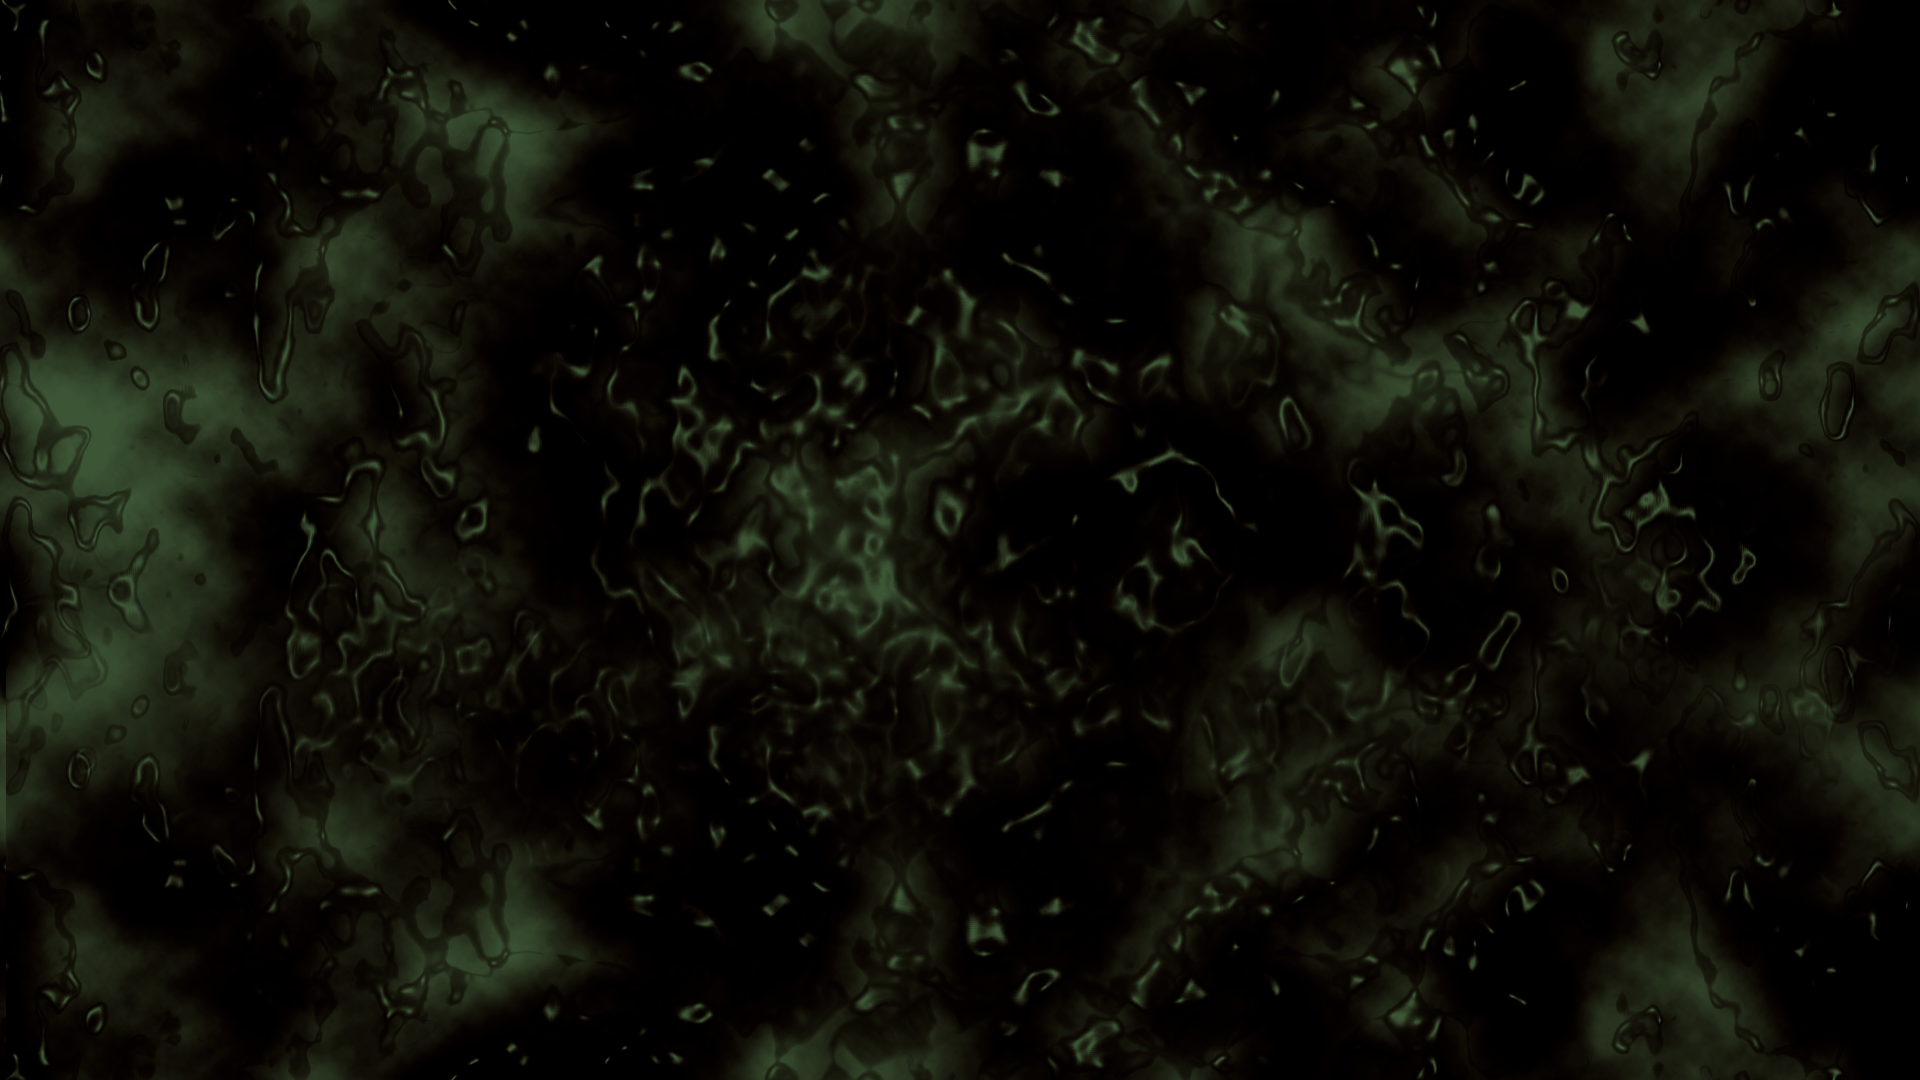
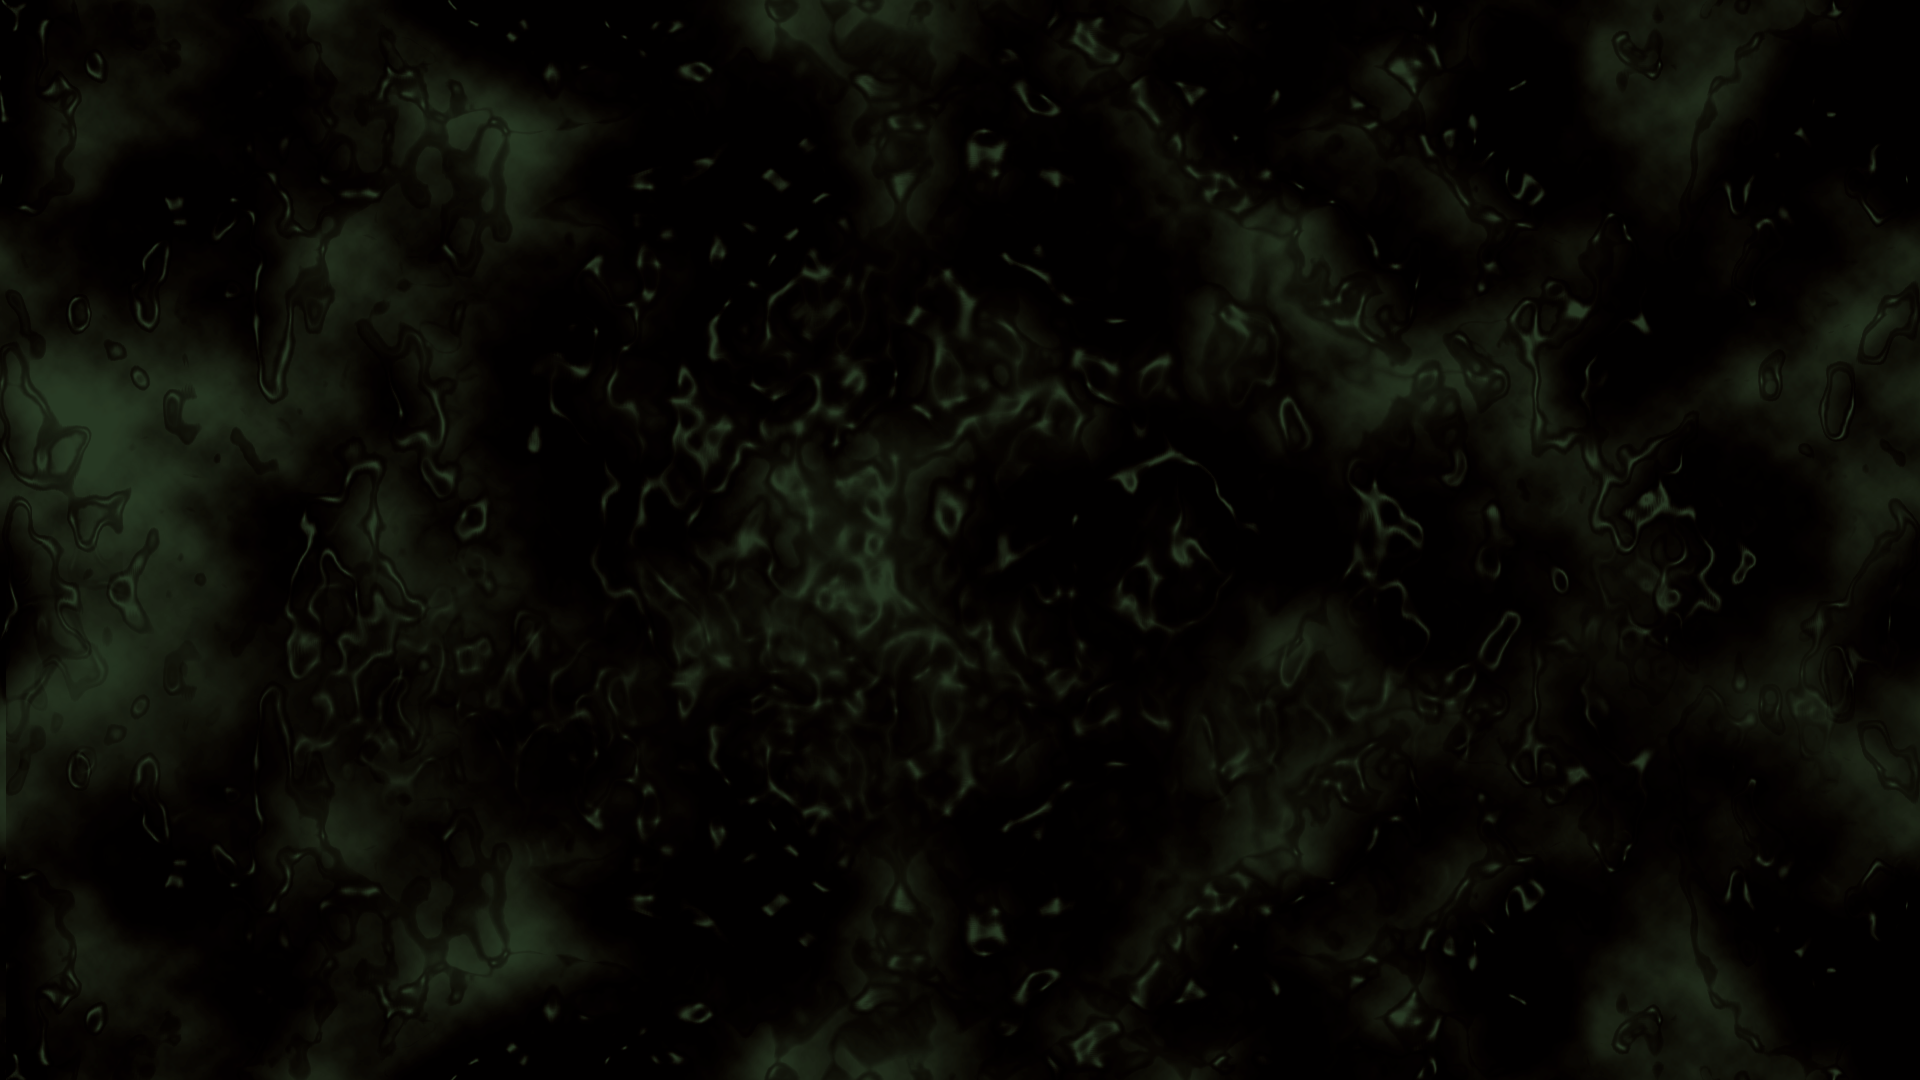
calendarioModificado

diff --git a/src/app/pages/calendario/calendario.component.css b/src/app/pages/calendario/calendario.component.css
@@ -3,18 +3,17 @@ main{
     background-size: cover;
     background-repeat: no-repeat;
     width: 100%;
-    height: 1300px;
+    height: 1200px;
     display: flex;
 }
 
 .cuadroIzq{
-    height: 950px;
+    height: 1100px;
     width: 60%;
     border-radius: 20px 0 0 20px;
     margin-left: 120px;
     margin-top: 160px;
-    background-image: url('src/assets/images/fondos/Fondo_verde2.png');
-    display: flex;
+    background-image: linear-gradient(to bottom, rgba(0, 0, 0, 0.60), rgba(0, 0, 0, 0.60)), url('src/assets/images/fondos/Fondo_verde2.png');    display: flex;
     flex-direction: column;
     align-items: center;
     gap: 30px;
@@ -29,7 +28,7 @@ main{
 
 
  #calendar{
-    height: 800px;
+    height: 965px;
     width: 85%;
     color: var(--blanco);
     font-family: var(--antiqua);
@@ -39,21 +38,36 @@ main{
 .mat-calendar{
     color: var(--blanco);
     font-family: var(--antiqua);
-    border: solid yellow 2px;
     height: 100%;
 } 
 
-::ng-deep .mat-calendar-body-label{
+span{
+    color: var(--blanco);
+    font-family: var(--antiqua);
+}
+
+polygon {
+    fill: var(--blanco);
+}
+
+td.mat-calendar-body-label {
+    font-family: var(--antiqua);
     color: var(--blanco);
 }
 
-::ng-deep .mat-calendar-body-cell-content{
+span.mat-calendar-body-cell-content.mat-focus-indicator {
     color: var(--blanco);
+    border-color: var(--blanco);
+    border-radius: 0;
 }
 
-
+span.mat-calendar-body-cell-content.mat-focus-indicator.mat-calendar-body-selected.mat-calendar-body-today {
+    border-color: var(--amarillo);
+    background-color: var(--verde);
+    color: var(--blanco);
+}
 .cuadroDcha{
-    height: 950px;
+    height: 1100px;
     width: 32%;
     margin-right: 120px;
     margin-top: 160px;

diff --git a/src/app/pages/calendario/calendario.component.ts b/src/app/pages/calendario/calendario.component.ts
@@ -1,12 +1,15 @@
-import { Component } from '@angular/core';
 import { MatCalendar } from '@angular/material/datepicker';
 import { MatDatepickerModule } from '@angular/material/datepicker';
+
+import { Component, ViewEncapsulation } from '@angular/core';
 
 @Component({
   selector: 'app-calendario',
   templateUrl: './calendario.component.html',
-  styleUrls: ['./calendario.component.css']
+  styleUrls: ['./calendario.component.css'],
+  encapsulation: ViewEncapsulation.None // add this line
 })
+
 export class CalendarioComponent {
 
   // elegir dia de hoy

diff --git a/src/app/pages/calendario/calendario.component.html b/src/app/pages/calendario/calendario.component.html
@@ -10,7 +10,6 @@
             
         </div>
 
-          
     </div>
     <div class="cuadroDcha">
 
